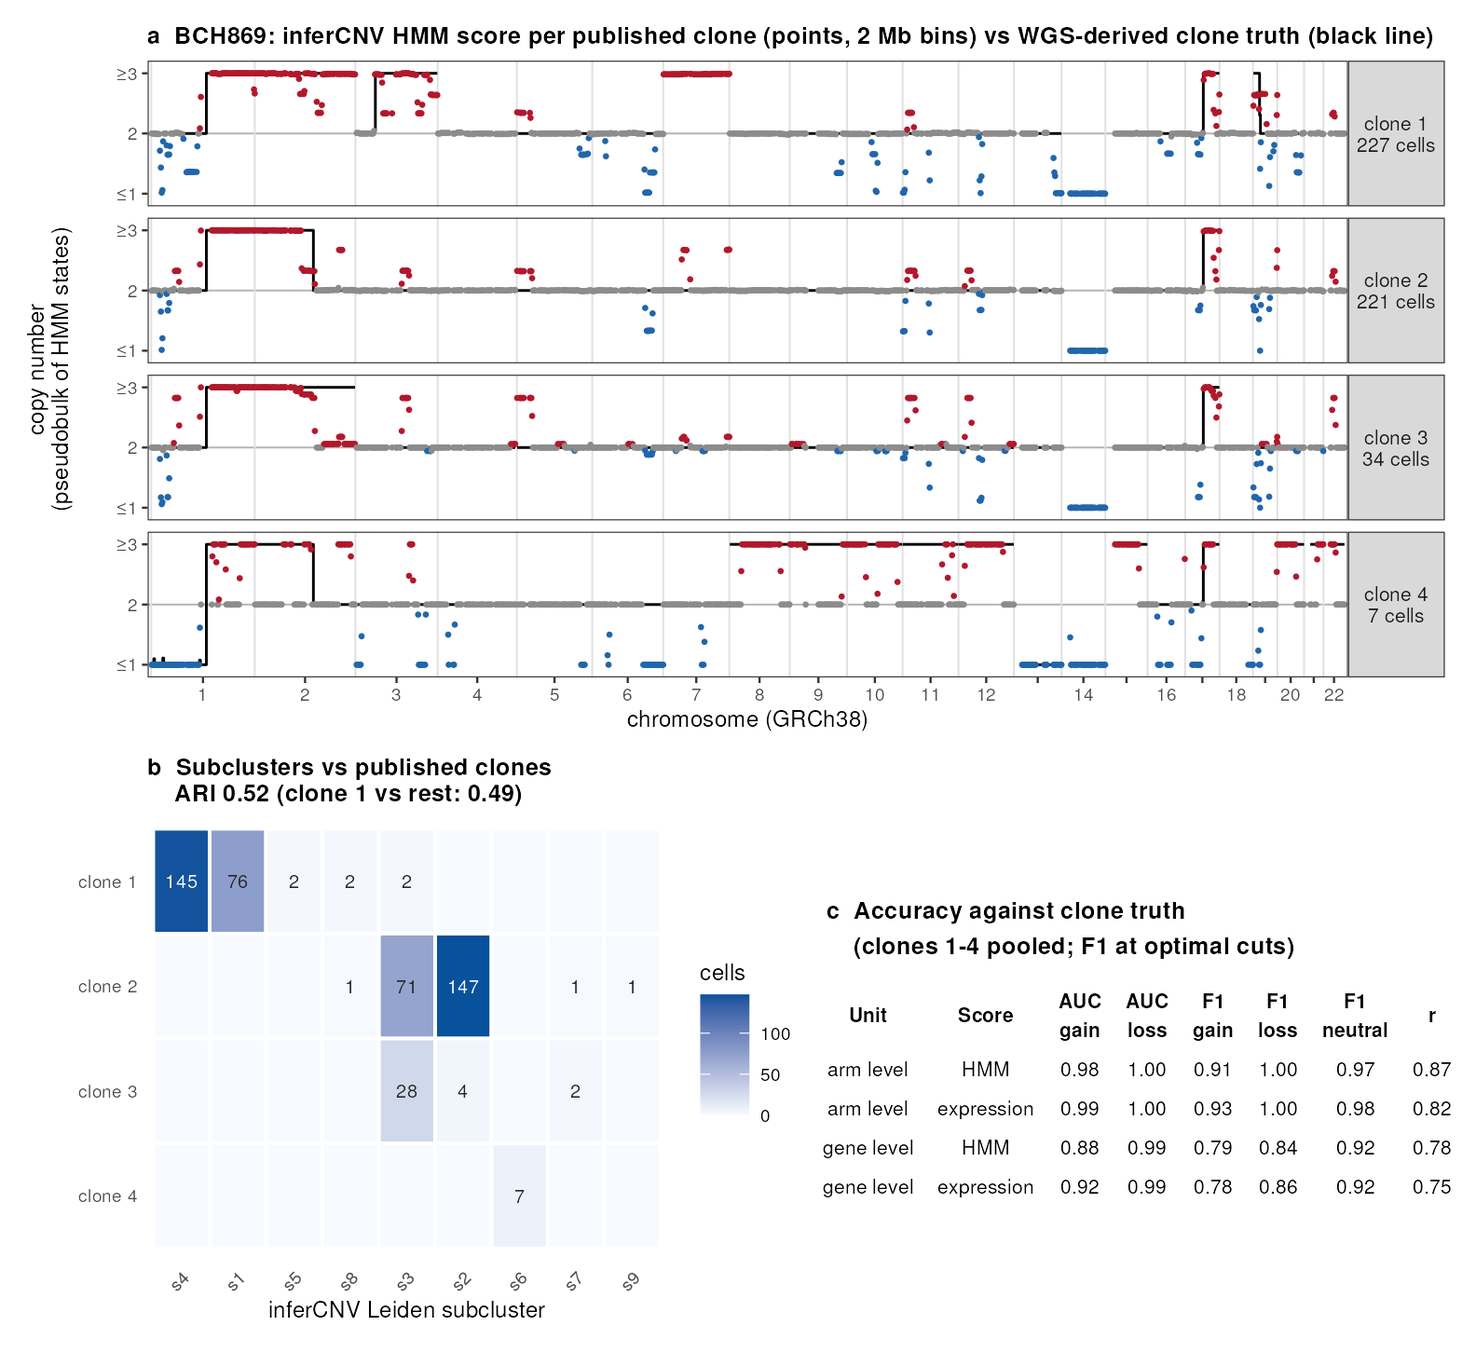
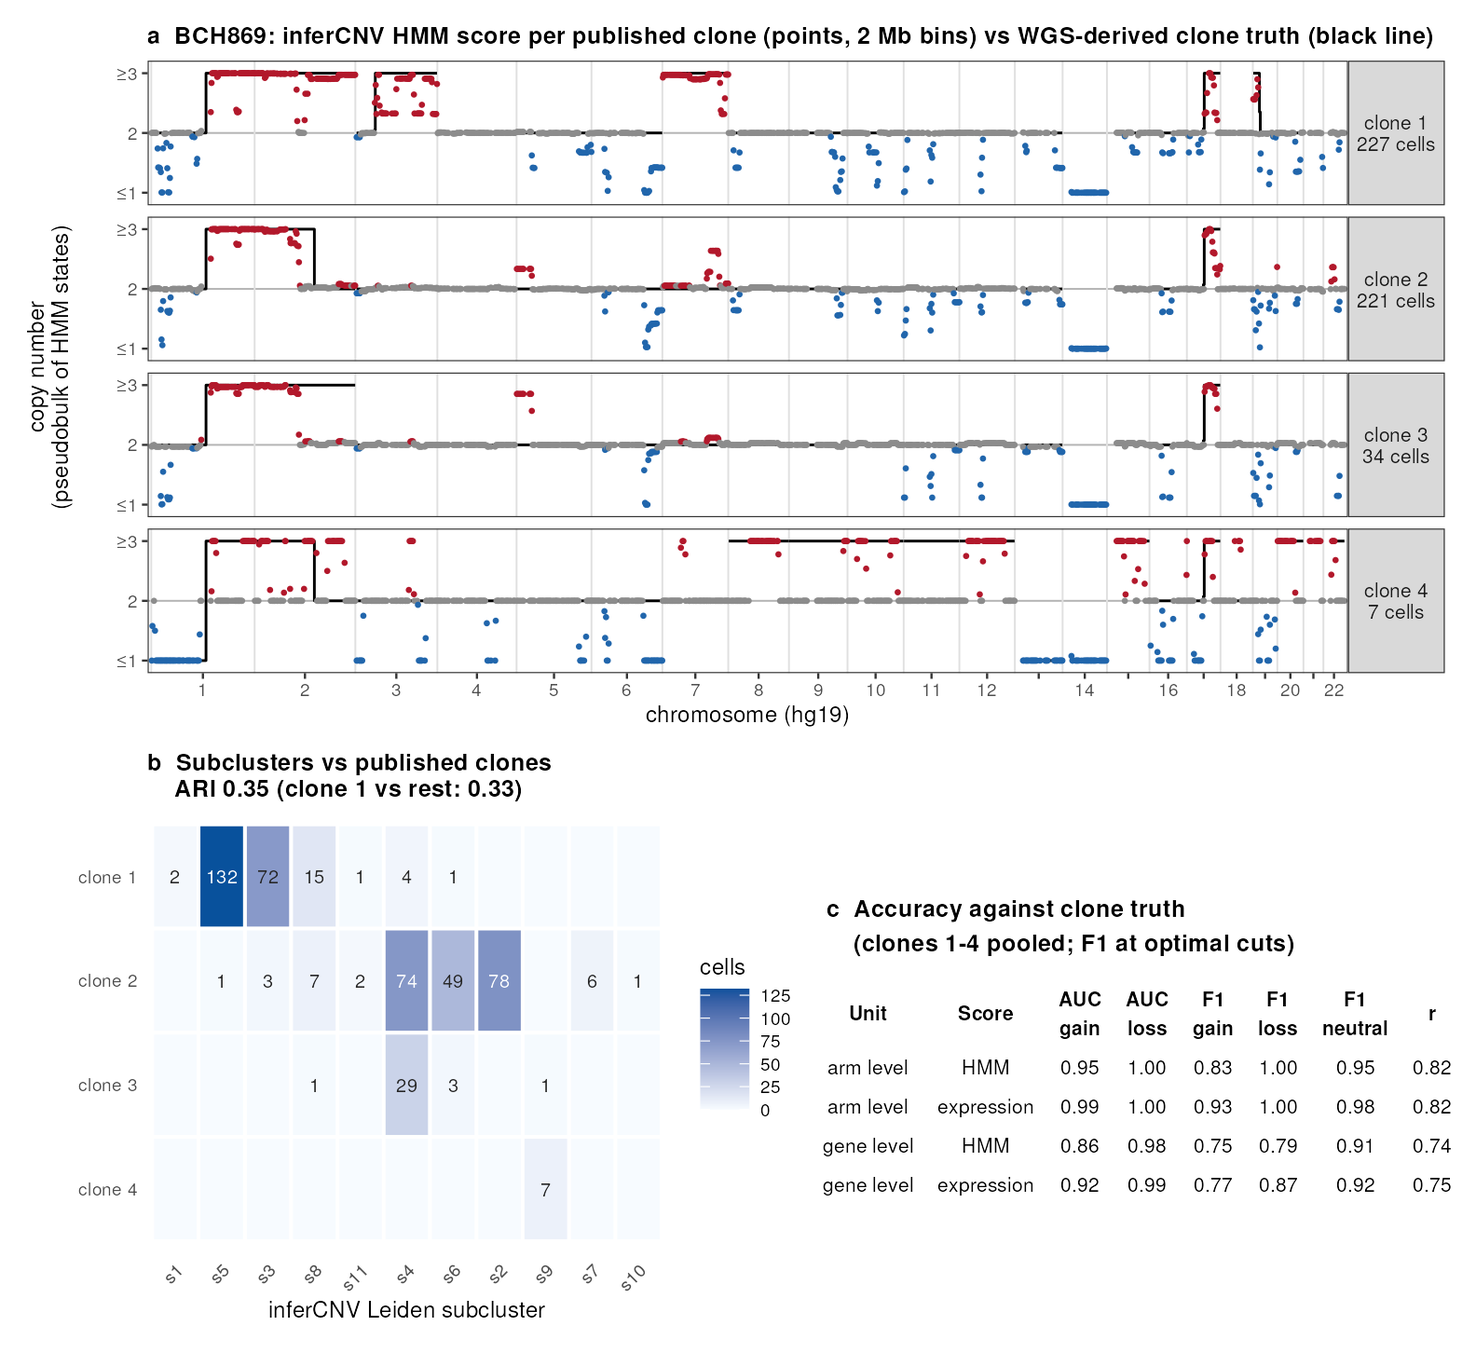
Use author-deposited matrices for BCH869 and synovial sarcoma
BCH869 now uses the GSE102130/SCP147 RSEM TPM matrix (hg19) and the synovial
sarcoma panel the GSE131309 counts with the authors' SCP167 SS18-SSX calls.
Realigned reads and STAR-Fusion kept as a cross-check in Methods; data
statement updated accordingly.

diff --git a/sections/results.tex b/sections/results.tex
@@ -12,7 +12,7 @@ inferCNV recovers the hallmark CNAs of tumours profiled with Smart-seq2 in the o
 
 \placefloat{fig:3}
 
-As an orthogonal check on the classification of cells as malignant, we compared inferCNV with detection of the SS18--SSX fusion transcript, the defining driver of synovial sarcoma, in three synovial sarcomas profiled by Smart-seq2 \citep{jerbyarnon2021}, whose reads we reprocessed (Methods; fusions detected with STAR-Fusion \citep{haas2019starfusion, dobin2013star}). For each patient, half of the published immune and stromal cells, one group per published cluster, served as the reference; the other half were held out and analysed together with the malignant cells, and each observed cell was classified from its CNV score and its correlation with the tumour's CNV profile, with thresholds set from the reference cells (Supplementary Fig.~\ref{fig:S5}). Of the 349 observed cells in which SS18--SSX reads were detected, 344 (98.6\%) were classified as malignant (SS1, 153/158; SS13, 141/141; SS16, 50/50); the five exceptions, in SS1, lay just below the thresholds. Malignant cells without detected fusion reads were classified as malignant at the same rate (99.2\%), consistent with incomplete detection of the fusion transcript rather than a distinct population. Of the held-out immune and stromal cells, 266 of 281 (94.7\%) were classified as non-malignant; most of the others lay near the thresholds or came from small clusters with little representation in the reference. All cells labelled malignant by the CNV analysis of the original study were classified as malignant; that label, however, covered only 42 of the 349 malignant cells of SS1, which accounts for most of the disagreement with it.
+As an orthogonal check on the classification of cells as malignant, we compared inferCNV with detection of the SS18--SSX fusion transcript, the defining driver of synovial sarcoma, in three synovial sarcomas profiled by Smart-seq2, using the published counts and the per-cell fusion calls of the original study \citep{jerbyarnon2021}. For each patient, half of the published immune and stromal cells, one group per published cluster, served as the reference; the other half were held out and analysed together with the malignant cells, and each observed cell was classified from its CNV score and its correlation with the tumour's CNV profile, with thresholds set from the reference cells (Supplementary Fig.~\ref{fig:S5}). Of the 479 observed cells with a detected SS18--SSX transcript, 474 (99.0\%) were classified as malignant (SS1, 204/208; SS13, 187/187; SS16, 83/84). Malignant cells without a detected fusion were classified as malignant at a similar rate (506/515, 98.3\%), consistent with incomplete detection of the fusion transcript rather than a distinct population. Of the held-out immune and stromal cells, 269 of 281 (95.7\%) were classified as non-malignant; most of the others lay near the thresholds or came from small clusters with little representation in the reference. Of the cells labelled malignant by the CNV analysis of the original study, 615 of 616 were classified as malignant; that label, however, covered only 42 of the 349 malignant cells of SS1, which accounts for most of the disagreement with it.
 
 \subsection{Subclustering (Fig.~\ref{fig:subclusters})}
 
@@ -30,7 +30,7 @@ For the 10x multiple myeloma sample MM199 (1,916 malignant cells, 245 reference 
 
 The two basal cell carcinoma samples of the benchmark (BCC06 before and after treatment) are shown in Supplementary Fig.~\ref{fig:S1}. Against their exome truth, both inferCNV scores were close to chance (AUC 0.57--0.62, maximal F1 0.41--0.42; Supplementary Table~\ref{tab:S2}), as were the values reported for v1.10 (maximal F1 0.38--0.43) and for all callers in \citet{schmid2025}. The exome segmentation of these samples is highly fragmented (4,522 segments for BCC06, about half of them losses with small copy ratios) and labels about half of the genome as altered, whereas inferCNV shows a few clear arm-level events; BCC06 also has only 33 reference cells. These samples therefore measure the noise of the truth as much as the accuracy of the caller.
 
-BCH869, an H3K27M glioma, contains only three non-malignant cells, so we ran inferCNV on its 489 malignant cells with the immune and oligodendrocyte cells of another tumour from the same study (BCH1126) as the reference, one group per cell type, after reprocessing the reads of both (Methods). We compared the result with the clone copy-number profiles that Filbin et al.\ derived from scRNA-seq and bulk whole-genome sequencing \citep{filbin2018}, as tabulated with per-cell clone labels by \citet{huang2024xclone} (Fig.~\ref{fig:4}b). Averaged over the cells of each clone, the HMM calls recovered all arm-level events of the three main clones (the shared gains of 1q, 2p and 17q and loss of chromosome 14, and the clone 1 gains of 2q, 3q, 7 and 19p), and most events of the 7-cell clone 4. At the arm level, the CNV score had AUCs of 0.98 for gains and 1.00 for losses (maximal F1 0.91 and 1.00); at the gene level, 0.88 and 0.99 (F1 0.79 and 0.84). inferCNV also called a few regions absent from the truth (a loss on 19p13.1 and scattered focal changes), and the three non-malignant BCH869 cells carried scattered focal calls, consistent with residual differences between a reference drawn from another patient and the tumour. The Leiden subclusters separated clone 1 from the other cells and isolated clone 4, but did not separate clones 2 and 3, which differ only by a gain of 2q, and split the large clones into several subclusters (adjusted Rand index 0.52).
+BCH869, an H3K27M glioma, contains only three non-malignant cells, so we ran inferCNV on its 489 malignant cells with the immune and oligodendrocyte cells of another tumour from the same study (BCH1126) as the reference, one group per cell type, using the published expression matrix of the study (Methods). We compared the result with the clone copy-number profiles that Filbin et al.\ derived from scRNA-seq and bulk whole-genome sequencing \citep{filbin2018}, as tabulated with per-cell clone labels by \citet{huang2024xclone} (Fig.~\ref{fig:4}b). Averaged over the cells of each clone, the HMM calls recovered all arm-level events of the three main clones (the shared gains of 1q, 2p and 17q and loss of chromosome 14, and the clone 1 gains of 2q, 3q, 7 and 19p), although the 17q gain was called in only part of the cells, and most events of the 7-cell clone 4. At the arm level, the CNV score had AUCs of 0.95 for gains and 1.00 for losses (maximal F1 0.83 and 1.00); at the gene level, 0.86 and 0.98 (F1 0.75 and 0.79). inferCNV also called a few regions absent from the truth (losses on 19p13 and 6q, and scattered focal changes), and the three non-malignant BCH869 cells carried scattered focal calls, consistent with residual differences between a reference drawn from another patient and the tumour. The Leiden subclusters separated clone 1 from the other cells (96\% agreement after assigning each subcluster to its majority clone) and isolated clone 4, but did not separate clones 2 and 3, which differ only by a gain of 2q, and split the large clones into several subclusters (adjusted Rand index 0.35).
 
 \subsection{Accuracy on simulated data (Fig.~\ref{fig:5})}
 

diff --git a/sections/methods.tex b/sections/methods.tex
@@ -18,9 +18,9 @@ The evaluation re-implements that of Schmid et al.~Truth segments were tiled int
 
 Run times for Fig.~\ref{fig:4} were measured on a compute cluster with 4 threads per job (wall time and peak resident memory as reported by the scheduler). TNBC1 (10x, 1,097 cells: 302 normal cells as reference and two tumour clones) \citep{gao2021copykat, huang2024xclone, xclonedata} was run in expression-only mode with the Fig.~\ref{fig:4} settings on an 8-core host with load averages of about 40, so its times are upper bounds; step times were taken from the run log. In an earlier run, Leiden subclustering appeared to take 1.6 h; this was caused by calling \texttt{run()} through \texttt{do.call()} with the object inlined in the call, which Seurat's \texttt{ScaleData} then deparses. Calling \texttt{run()} directly avoids this. For the scaling experiment (Fig.~\ref{fig:6}b--d), nested down-samples of 500, 1,000, 2,500, 5,000, 10,000 and 20,000 cells were drawn from a 10x breast cancer atlas \citep{wu2021breast} (GEO GSE176078; author cell-type labels): 80\% malignant epithelial cells from the eight tumours with the most such cells, annotated by tumour, and 20\% endothelial cells and cancer-associated fibroblasts as two reference groups, allocated proportionally, with each subset containing the smaller ones. About 8,000 genes passed \texttt{cutoff = 0.1} at every size. Each size was run with i6 and the Bayesian filter (default), i6 without it (\texttt{BayesMaxPNormal = 0}) and i3 without it, with 4 threads on lightly loaded 128-core cluster nodes. Wall time and peak resident memory were taken from \texttt{/usr/bin/time -v}, and step times from the run log.
 
-\subsection{Reprocessing of Smart-seq2 data}
+\subsection{Smart-seq2 tumours with clone and fusion labels}
 
-For the H3K27M glioma BCH869 and BCH1126 \citep{filbin2018} and the synovial sarcomas SS1, SS13 and SS16 \citep{jerbyarnon2021} (2,358 cells), reads were realigned to GRCh38 with GENCODE v44 annotation (CTAT genome library). Each cell was processed with STAR-Fusion 1.15.1 \citep{haas2019starfusion}, which runs STAR \citep{dobin2013star} once to produce both the genome alignment and fusion predictions; gene counts were obtained with featureCounts (Subread 2.1.1) in paired-end mode. SS18--SSX was considered detected in a cell when STAR-Fusion reported SS18 fused to any SSX paralog. Our counts agreed with the published expression values of the synovial sarcoma cells (per-cell Pearson correlation of log-scaled values, median 0.90--0.92 by patient), and SS18--SSX was detected in 71\% of the cells the original study reported as fusion-positive, with the expected SSX1 or SSX2 partner for each patient and in one of 560 immune and stromal cells. For the synovial sarcoma comparison, each cell's CNV score was the mean squared deviation of its final residuals from 1, its correlation was with the mean residual profile of the 10\% highest-scoring observed cells of the patient, and a cell was classified malignant if either value exceeded the 99th percentile of the patient's reference cells. For BCH869, published clone labels and per-clone copy number were taken from \citet{huang2024xclone}; cell names were matched between data sets (all 492 cells), truth was assigned to genes by their hg19 coordinates, and scores were compared at gene and chromosome-arm level as in the DNA-truth evaluation above.
+For the H3K27M gliomas BCH869 and BCH1126 \citep{filbin2018} we used the published RSEM TPM matrix (GEO GSE102130; Single Cell Portal SCP147), and for the synovial sarcomas SS1, SS13 and SS16 \citep{jerbyarnon2021} the published Smart-seq2 counts (GEO GSE131309) with the cell annotations and per-cell SS18--SSX fusion calls of the original study (Single Cell Portal SCP167). Both matrices use hg19 gene symbols, which were placed with the GENCODE v19 gene-order file of inferCNV\_examples (93\% of genes). inferCNV was run with \texttt{cutoff\ =\ 1}, \texttt{cluster\_by\_groups\ =\ TRUE}, \texttt{denoise\ =\ TRUE}, Leiden subclusters, the i6 HMM with the Bayesian filter (\texttt{BayesMaxPNormal\ =\ 0.5}) and \texttt{seed\ =\ 1}. For the synovial sarcoma comparison, each cell's CNV score was the mean squared deviation of its final residuals from 1, its correlation was with the mean residual profile of the 10\% highest-scoring observed cells of the patient, and a cell was classified malignant if either value exceeded the 99th percentile of the patient's reference cells. For BCH869, published clone labels and per-clone copy number were taken from \citet{huang2024xclone}; cell names were matched between data sets (all 492 cells), truth was assigned to genes by their hg19 coordinates, and scores were compared at gene and chromosome-arm level as in the DNA-truth evaluation above.\n\nAs a cross-check, we realigned the reads of these cells to GRCh38 (GENCODE v44, CTAT genome library) and processed each cell with STAR-Fusion 1.15.1 \citep{haas2019starfusion}, which runs STAR \citep{dobin2013star} once for both the genome alignment and fusion detection, with gene counts from featureCounts (Subread 2.1.1). SS18--SSX, called when SS18 was fused to any SSX paralog, was detected in 350 synovial sarcoma cells, of which 340 were fusion-positive in the original study (with the same SSX partner in all but three); the original calls included 139 further cells. inferCNV runs on the realigned counts gave similar results: 344 of 349 observed cells with STAR-Fusion-detected SS18--SSX were classified as malignant, and the BCH869 arm-level AUCs were 0.98 for gains and 1.00 for losses.
 
 \subsection{Long-read and spatial data}
 

diff --git a/sections/availability.tex b/sections/availability.tex
@@ -4,4 +4,4 @@ inferCNV is an R package released under the BSD 3-clause licence. It is availabl
 
 Scripts for the analyses in this article are available at https://github.com/TrinityCTAT/InferCNV\_Paper \todo{confirm public before posting}. The simulation toolkit is at https://github.com/broadinstitute/inferCNV\_benchmarking.
 
-All data analysed in this study are publicly available, except the raw Smart-seq2 reads described below. Oligodendroglioma and glioblastoma Smart-seq2 data (Figs.~\ref{fig:1}--\ref{fig:3}) are from the inferCNV package and the inferCNV\_examples repository \citep{tirosh2016oligo, patel2014}. The 10x PBMC 3k, TNBC1 and BCH869 matrices are from the xclone-data repository \citep{tenx2016pbmc3k, xclonedata}; MM199 counts are from GEO GSE141299, BCC06 and BCC06post counts from GEO GSE123813, and their whole-exome copy number segments from the Zenodo deposit of \citet{schmid2025zenodoTruth}. The breast cancer atlas used for scaling is GEO GSE176078 \citep{wu2021breast}, and the colorectal cancer atlas used for simulation parameters is GEO GSE178341 \citep{pelka2021}. Processed expression data of the H3K27M gliomas and synovial sarcomas are available from GEO (GSE102130 and GSE131309) \citep{filbin2018, jerbyarnon2021}. The raw Smart-seq2 reads that we realigned were generated at the Broad Institute in those studies, to which members of our group contributed, and were analysed here from the Broad Institute's copies. They were not deposited in public archives because of patient privacy: the raw reads of the synovial sarcomas are available under controlled access through DUOS (GEO GSE131309), and, as stated in GEO GSE102130, the raw reads of the H3K27M gliomas could not be deposited and are available from the original authors on request \citep{filbin2018, jerbyarnon2021}. The gene count matrices that we derived from these reads, with the cell annotations used here, and the input matrices of all other analyses in this article are available from Zenodo \todo{Zenodo DOI}. Kinnex PBMC and Visium HD data sets are from PacBio (https://downloads.pacbcloud.com/public/dataset/Kinnex-single-cell-RNA/); LongBench data are GEO GSE303762 and s3://longbench-data \citep{you2025longbench}; ccRCC organoid data are Zenodo record 14697181 and ENA PRJEB73513 \citep{zajac2025ccrcc}; and CCLE copy number was obtained from cBioPortal (study ccle\_broad\_2019) \citep{cerami2012cbioportal, ghandi2019ccle}.
+All data analysed in this study are publicly available, except the raw Smart-seq2 reads used for a cross-check, described below. Oligodendroglioma and glioblastoma Smart-seq2 data (Figs.~\ref{fig:1}--\ref{fig:3}) are from the inferCNV package and the inferCNV\_examples repository \citep{tirosh2016oligo, patel2014}. The 10x PBMC 3k and TNBC1 matrices and the BCH869 clone labels are from the xclone-data repository \citep{tenx2016pbmc3k, xclonedata}; MM199 counts are from GEO GSE141299, BCC06 and BCC06post counts from GEO GSE123813, and their whole-exome copy number segments from the Zenodo deposit of \citet{schmid2025zenodoTruth}. The breast cancer atlas used for scaling is GEO GSE176078 \citep{wu2021breast}, and the colorectal cancer atlas used for simulation parameters is GEO GSE178341 \citep{pelka2021}. The H3K27M glioma and synovial sarcoma analyses used the expression matrices, cell annotations and fusion calls deposited by the original studies (GEO GSE102130 and GSE131309; Single Cell Portal SCP147 and SCP167) \citep{filbin2018, jerbyarnon2021}. The raw Smart-seq2 reads of these tumours, which we realigned only for the cross-check described in Methods, were generated at the Broad Institute in those studies, to which members of our group contributed, and were analysed from the Broad Institute's copies. They were not deposited in public archives because of patient privacy: the raw reads of the synovial sarcomas are available under controlled access through DUOS (GEO GSE131309), and, as stated in GEO GSE102130, the raw reads of the H3K27M gliomas could not be deposited and are available from the original authors on request \citep{filbin2018, jerbyarnon2021}. The input matrices and cell annotations of all analyses in this article, and the count matrices that we derived from the realigned reads, are available from Zenodo \todo{Zenodo DOI}. Kinnex PBMC and Visium HD data sets are from PacBio (https://downloads.pacbcloud.com/public/dataset/Kinnex-single-cell-RNA/); LongBench data are GEO GSE303762 and s3://longbench-data \citep{you2025longbench}; ccRCC organoid data are Zenodo record 14697181 and ENA PRJEB73513 \citep{zajac2025ccrcc}; and CCLE copy number was obtained from cBioPortal (study ccle\_broad\_2019) \citep{cerami2012cbioportal, ghandi2019ccle}.

diff --git a/sections/figure_defs.tex b/sections/figure_defs.tex
@@ -47,7 +47,7 @@
 \centering
 \includegraphics[width=\textwidth]{figures/fig4_MM199_genome.png}\\[1ex]
 \includegraphics[width=0.92\textwidth]{figures/fig4_BCH869.png}
-\caption{\textbf{Comparison with DNA-based copy number.} \textbf{a}, Multiple myeloma MM199 (10x). Top, whole-exome copy number segments (Schmid et al.~truth). Below, inferCNV pseudobulk scores over 1,916 malignant cells: HMM states after Bayesian filtering (CNV score) and final residual expression (expression score), in 100-kb bins along the genome. \textbf{b}, H3K27M glioma BCH869 (Smart-seq2). Top, inferCNV pseudobulk HMM score (i6 states after Bayesian filtering, mean over cells) for each published clone in 2-Mb bins (points), with the clone's copy number derived from whole-genome sequencing (black line) \citep{filbin2018, huang2024xclone}. The reference was the immune and oligodendrocyte cells of a second tumour, BCH1126, one group per cell type. Bottom left, cells of each published clone across inferCNV's Leiden subclusters; bottom right, AUC and F1 for gains and losses at chromosome-arm and gene level, clones pooled. Settings as in Methods.}
+\caption{\textbf{Comparison with DNA-based copy number.} \textbf{a}, Multiple myeloma MM199 (10x). Top, whole-exome copy number segments (Schmid et al.~truth). Below, inferCNV pseudobulk scores over 1,916 malignant cells: HMM states after Bayesian filtering (CNV score) and final residual expression (expression score), in 100-kb bins along the genome. \textbf{b}, H3K27M glioma BCH869 (Smart-seq2; published TPM matrix, hg19 gene positions). Top, inferCNV pseudobulk HMM score (i6 states after Bayesian filtering, mean over cells) for each published clone in 2-Mb bins (points), with the clone's copy number derived from whole-genome sequencing (black line) \citep{filbin2018, huang2024xclone}. The reference was the immune and oligodendrocyte cells of a second tumour, BCH1126, one group per cell type. Bottom left, cells of each published clone across inferCNV's Leiden subclusters; bottom right, AUC and F1 for gains and losses at chromosome-arm and gene level, clones pooled. Settings as in Methods.}
 \label{fig:4}
 \end{figure}}
 
@@ -161,7 +161,7 @@ BCC06post & CNV, this study  & 0.41 & 0.33 & 0.48 & 0.24 & 0.33 & 0.62 & 0.58 & 
 \begin{figure}[p]
 \centering
 \includegraphics[width=\textwidth]{figures/fig_ss_fusion.png}
-\caption{\textbf{inferCNV classification of synovial sarcoma cells compared with SS18--SSX fusion detection.} Smart-seq2 cells from three synovial sarcomas \citep{jerbyarnon2021}, reprocessed; inferCNV was run per patient with half of the published immune and stromal cells as the reference (one group per published cluster), and the other half held out and analysed with the published malignant cells. (a) Per-cell CNV score (mean squared residual) against correlation with the tumour's CNV profile, for published malignant cells with and without detected SS18--SSX reads (STAR-Fusion), held-out immune and stromal cells, and reference cells. Dashed lines, 99th percentiles of the reference cells; cells beyond either line are classified malignant. (b) Classification per patient, and agreement with the CNV-based labels of the original study.}
+\caption{\textbf{inferCNV classification of synovial sarcoma cells compared with SS18--SSX fusion detection.} Smart-seq2 counts, cell annotations and SS18--SSX fusion calls of three synovial sarcomas from the original study \citep{jerbyarnon2021}; inferCNV was run per patient with half of the published immune and stromal cells as the reference (one group per published cluster), and the other half held out and analysed with the published malignant cells. (a) Per-cell CNV score (mean squared residual) against correlation with the tumour's CNV profile, for published malignant cells with and without a detected SS18--SSX transcript (original study), held-out immune and stromal cells, and reference cells. Dashed lines, 99th percentiles of the reference cells; cells beyond either line are classified malignant. (b) Classification per patient, and agreement with the CNV-based labels of the original study.}
 \label{fig:S5}
 \end{figure}}
 
